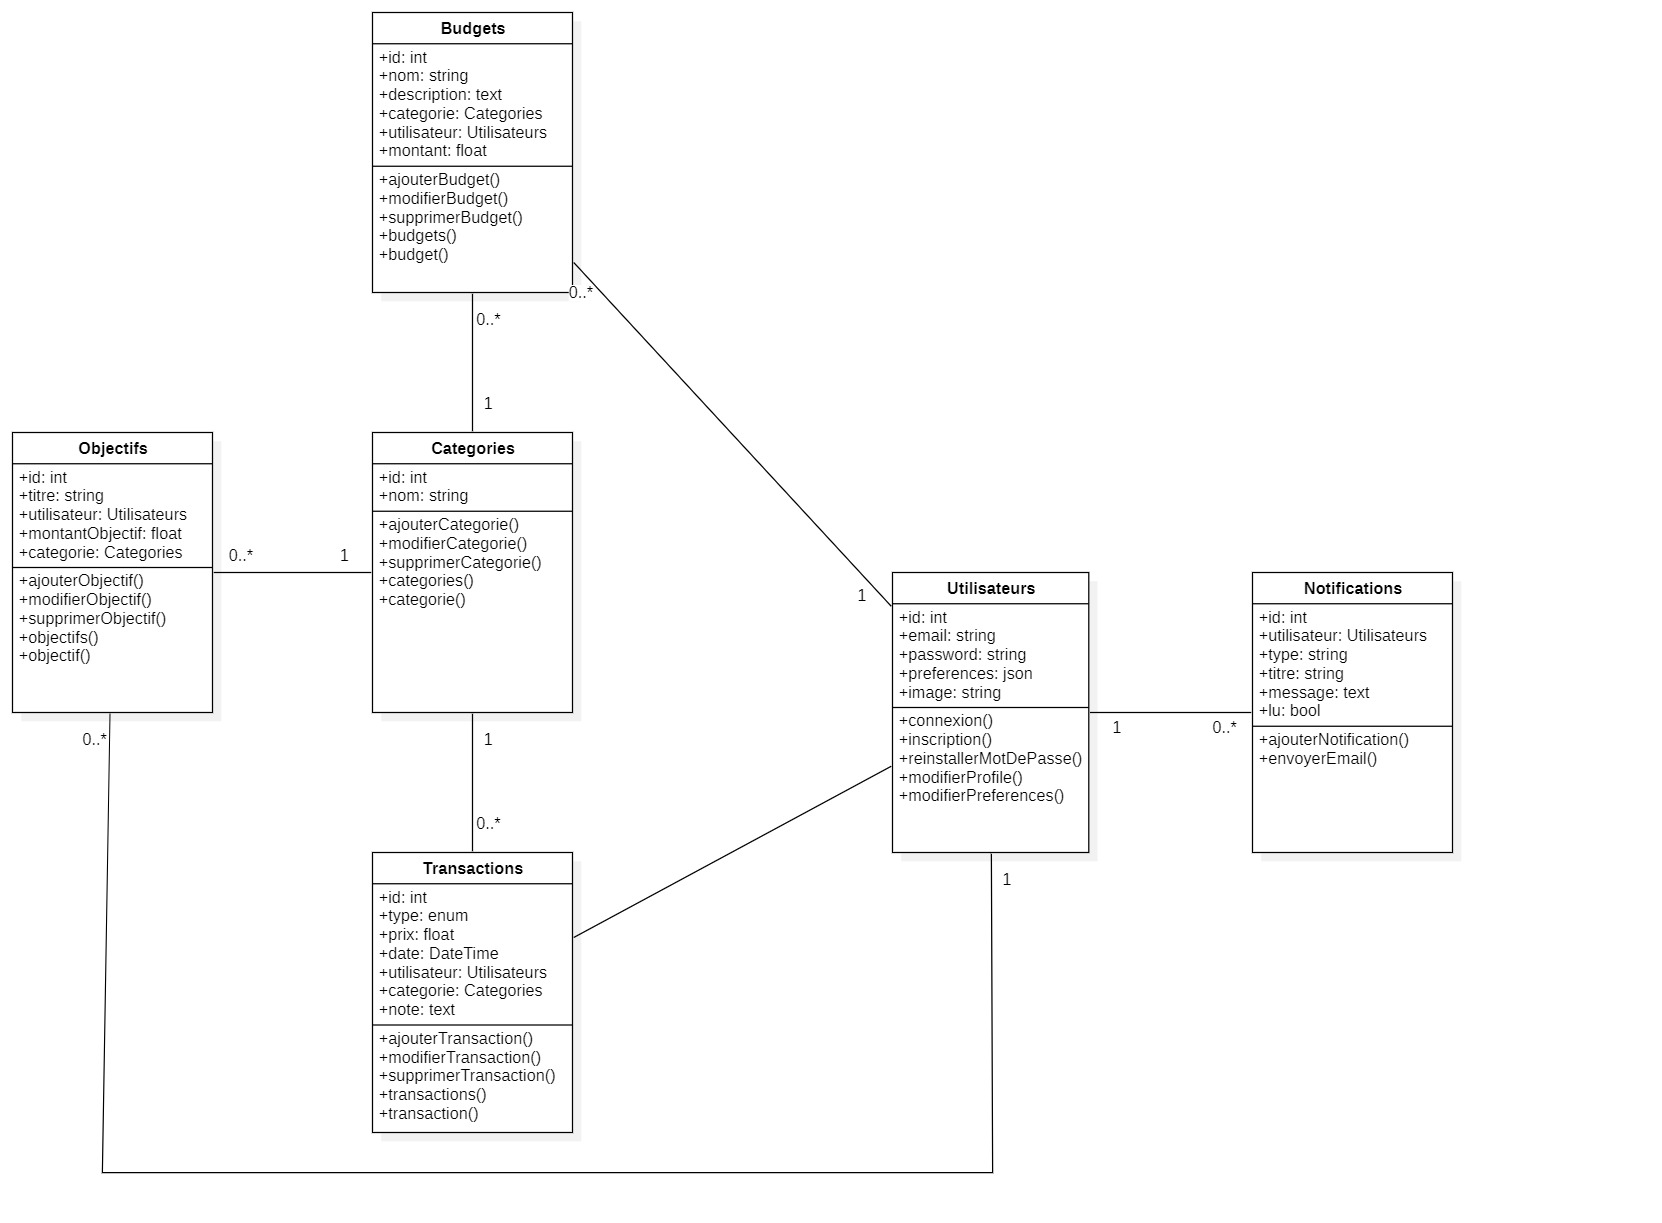
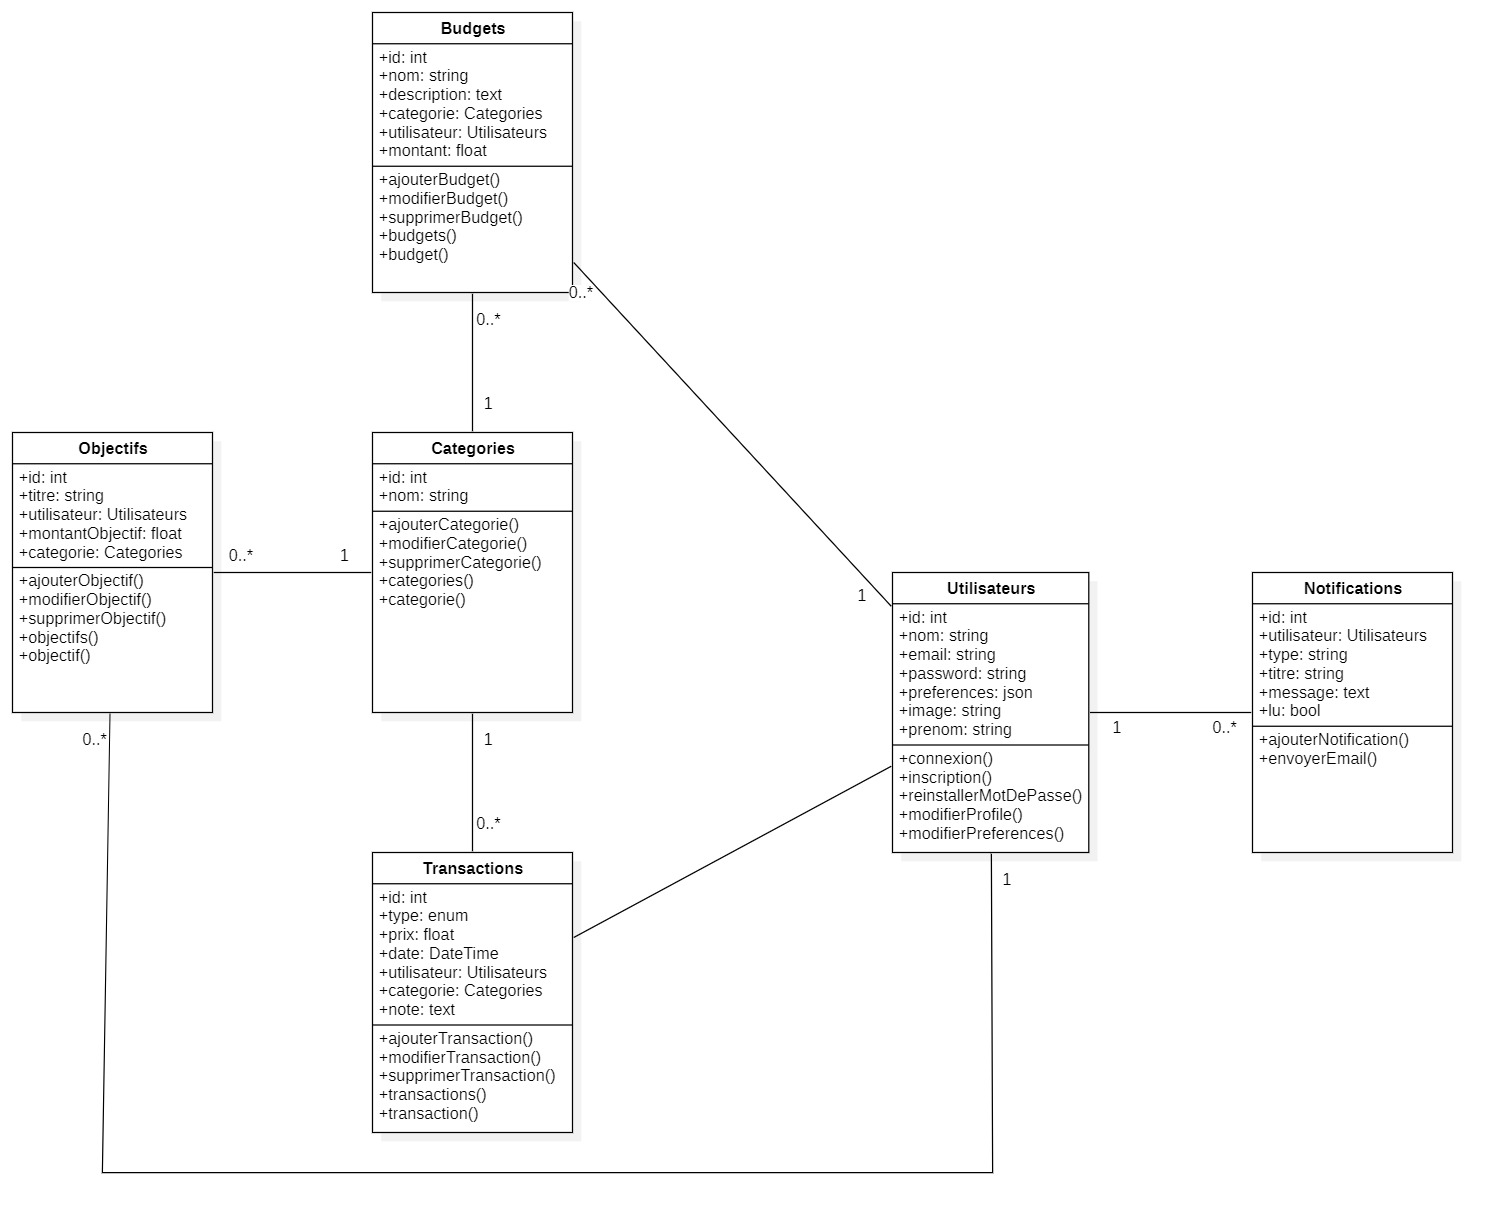
Correction d'un default dans le diagramme des classes puis j'ai crée le model utilisateur en utilisant la syntaxe de sequelize pour la creation de tableux Utilisateurs

diff --git a/models/utilisateurs.js b/models/utilisateurs.js
@@ -1,0 +1,37 @@
+const { Sequelize, DataTypes } = require("sequelize");
+const sequelize = require("../config/database");
+
+const Utilisateur = sequelize.define("Utilisateur", {
+  id: {
+    type: DataTypes.INTEGER,
+    autoIncrement: true,
+    primaryKey: true,
+  },
+  nom: {
+    type: DataTypes.STRING,
+    allowNull: false,
+  },
+  prenom: {
+    type: DataTypes.STRING,
+    allowNull: false,
+  },
+  email: {
+    type: DataTypes.STRING,
+    allowNull: false,
+    unique: true,
+  },
+  password: {
+    type: DataTypes.STRING,
+    allowNull: false,
+  },
+  preferences: {
+    type: DataTypes.JSON,
+    defaultValue: {},
+  },
+  image: {
+    type: DataTypes.STRING,
+    allowNull: true,
+  },
+});
+
+module.exports = Utilisateur;
